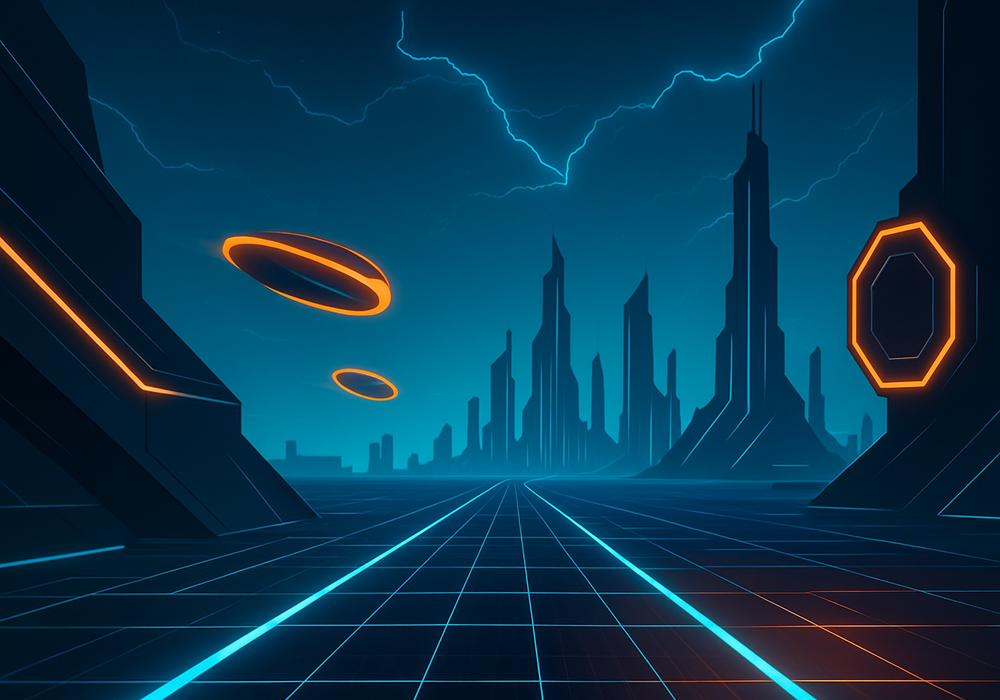
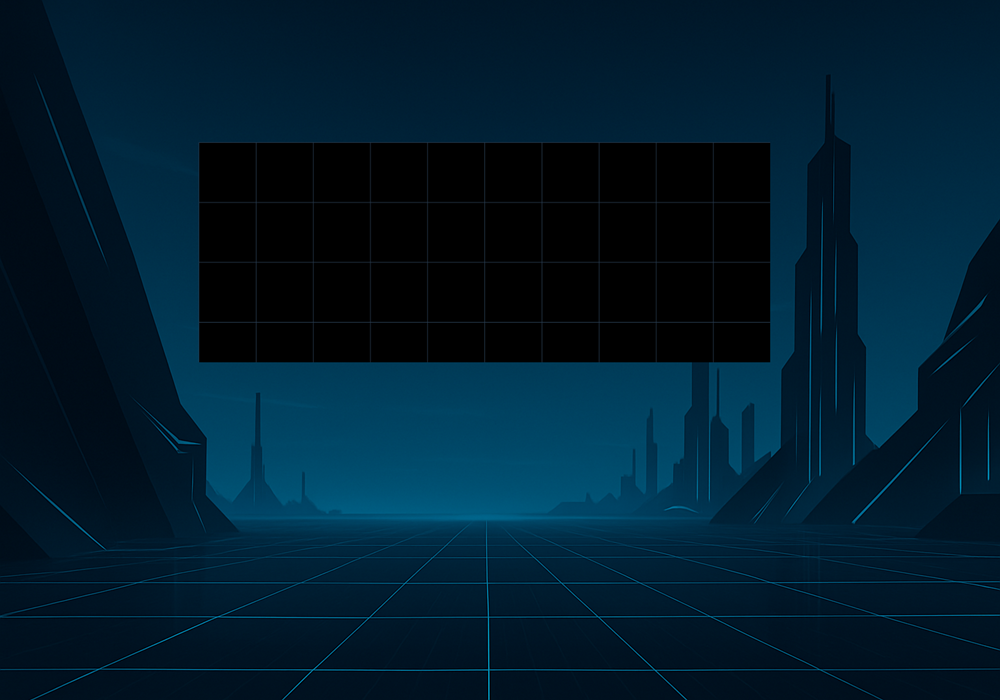
Tela de morte aperfeiçoada e alguns polimentos esteticos

diff --git a/main.py b/main.py
@@ -29,7 +29,7 @@ mainFundo = pygame.image.load("Recursos/mainFundo.png")
 fundoMorte = pygame.image.load("Recursos/fundoMorte.png")
 #somColisao = pygame.mixer.Sound("assets/missile.wav")
 #somMoeda = pygame.mixer.Sound("assets/explosao.wav")
-fonteNome = pygame.font.SysFont("TRON",50)
+fonteNome = pygame.font.SysFont("TRON",20)
 pygame.mixer.music.load("Recursos/somMenu.mp3")
 pygame.mixer.music.play(-1)
 
@@ -59,32 +59,29 @@ def jogar():
     rodando = True
     pausado = False
 
-    # Define fonte se ainda não tiver
-    fonteMenu = pygame.font.SysFont("comicsans", 48)
-
     # Define a contagem regressiva
-    def contagem_regressiva():
+    def contagemRegressiva():
         for i in range(3, 0, -1):
             tela.blit(mainFundo, (0, 0))
             tela.blit(mainJogador, player_rect)
-            texto = fonteMenu.render(str(i), True, branco)
+            texto = fonteNome.render(str(i), True, azul)
             tela.blit(texto, (tamanho[0] // 2 - texto.get_width() // 2, tamanho[1] // 2))
             pygame.display.update()
             pygame.time.delay(1000)
 
         tela.blit(mainFundo, (0, 0))
         tela.blit(mainJogador, player_rect)
-        texto = fonteMenu.render("GO!", True, branco)
+        texto = fonteNome.render("GO!", True, azul)
         tela.blit(texto, (tamanho[0] // 2 - texto.get_width() // 2, tamanho[1] // 2))
         pygame.display.update()
         pygame.time.delay(1000)
 
     def telaPausa():
-        textoPausa = fonteMenu.render("Jogo Pausado - Pressione ESPAÇO", True, branco)
+        textoPausa = fonteNome.render("Jogo Pausado - Pressione ESPAÇO", True, azul)
         tela.blit(textoPausa, (tamanho[0] // 2 - textoPausa.get_width() // 2, tamanho[1] // 2))
         pygame.display.update()
 
-    contagem_regressiva()
+    contagemRegressiva()
 
     while rodando:
         relogio.tick(60)
@@ -96,11 +93,11 @@ def jogar():
                 if evento.key == pygame.K_UP:
                     player_speed_y = fly_force
                 if evento.key == pygame.K_SPACE:
-                    pausado = not pausado  # Alterna pausa
+                    pausado = not pausado
 
         if pausado:
             telaPausa()
-            continue  # Volta para o início do loop sem atualizar o jogo
+            continue
                             
 
         # Movimento fundo
@@ -275,8 +272,8 @@ def creditos():
 def dead():
     pygame.mixer.music.stop()
     #pygame.mixer.Sound.play(explosaoSound)
-    larguraButtonVoltar = 401
-    alturaButtonVoltar = 91
+    larguraButtonVoltar = 415
+    alturaButtonVoltar = 120
      
     root = tk.Tk()
     root.title("Tela da Morte")
@@ -302,35 +299,37 @@ def dead():
                 quit()
             elif evento.type == pygame.MOUSEBUTTONDOWN:
                 if voltarRect.collidepoint(evento.pos):
-                    larguraButtonVoltar = 401
-                    alturaButtonVoltar = 91
+                    larguraButtonVoltar = 415
+                    alturaButtonVoltar = 120
             elif evento.type == pygame.MOUSEBUTTONUP:
                 if voltarRect.collidepoint(evento.pos):
                     pygame.mixer.music.load("Recursos/somMenu.mp3")
                     pygame.mixer.music.play(-1)
-                    larguraButtonVoltar = 401
-                    alturaButtonVoltar = 91
+                    larguraButtonVoltar = 415
+                    alturaButtonVoltar = 120
                     return
                         
         tela.fill(branco)
         tela.blit(fundoMorte, (0,0) )
 
-        voltarButton = pygame.image.load("Recursos/menuVoltar.png")
-        voltarRect = voltarButton.get_rect(topleft=(50, 50))
-        tela.blit(voltarButton, (50,50))
+        voltarButton = pygame.image.load("Recursos/morteVoltar.png")
+        voltarRect = voltarButton.get_rect(topleft=(275, 345))
+        tela.blit(voltarButton, (275, 345))
 
         pygame.display.update()
         relogio.tick(60)
 
 def telaBoasVindas():
     fundoBoasVindas = pygame.image.load("Recursos/fundoBoasVindas.png")
-    textoBemVindo = fonteNome.render(f"Bem-Vindo {nome}\nRecolha os fragmentos da sua nave e sobreviva\nPressione ESPAÇO para Pausar\n", True, azul)
+    textoBemVindo = fonteNome.render(f"Bem-Vindo {nome}", True, azul)
+    textoInstrucoes = fonteNome.render(f"Recolha os fragmentos da sua nave", True, azul)
     #falar("Bem Vindo", nome)
 
     while True:
         tela.fill(branco)
         tela.blit(fundoBoasVindas, (0, 0))
-        tela.blit(textoBemVindo, (100, 0))
+        tela.blit(textoBemVindo, (370, 155))
+        tela.blit(textoInstrucoes, (200, 215))
 
         for evento in pygame.event.get():
             if evento.type == pygame.QUIT:
